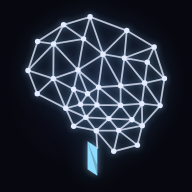
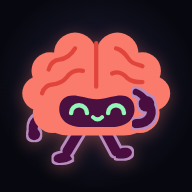
Icono con el personaje y animación de entrada «Zuka potencia tu mente»
Los iconos (Android, enmascarable, Apple y favicon) son ahora el
personaje sobre el fondo oscuro de la app. La portada de entrada muestra
al personaje, que aparece con un rebote y dice en un globo «Zuka» y
«potencia tu mente» palabra por palabra; al final salta. Lo escribe
tools/marca.js (introBlock e iconos con --png). Spec
2026-11-20-icono-y-entrada.

diff --git a/index.html b/index.html
@@ -662,8 +662,28 @@
 <body data-tab="home">
   <!-- Portada: cubre la app mientras se arma y luego se desvanece. En la app instalada es del color del
        fondo del icono (la pantalla de inicio de Android). La primera vez de cada sesión lleva la animación de entrada:
-       el mismo cerebro del icono, en el centro y quieto, que se enciende mientras la app carga; luego ZUKA y el eslogan. -->
-  <div id="boot" aria-hidden="true"><!-- intro: generado por tools/marca.js, no editar --><div class="intro"><div class="intro-brain"><svg class="bi-band" style="--k:0" viewBox="0 0 100 100" focusable="false"><g stroke="#07080f" stroke-width=".5" stroke-linejoin="round"><polygon points="59.7 80.5 50 69.1 62.4 68.9" fill="#f3d583"/><polygon points="50 69.1 37.5 66.6 44.3 61.7" fill="#bfe6f7"/><polygon points="50 69.1 57 62.4 62.4 68.9" fill="#f0605d"/><polygon points="50 69.1 57 62.4 44.3 61.7" fill="#f4f7ff"/><polygon points="50.4 54.8 57 62.4 44.3 61.7" fill="#f4f7ff"/></g></svg><svg class="bi-band" style="--k:1" viewBox="0 0 100 100" focusable="false"><g stroke="#07080f" stroke-width=".5" stroke-linejoin="round"><polygon points="72.8 77.1 59.7 80.5 62.4 68.9" fill="#8fd0ee"/><polygon points="37.5 66.6 33.1 56.7 44.3 61.7" fill="#8fd0ee"/><polygon points="33.1 56.7 41.3 54.5 44.3 61.7" fill="#8fd0ee"/><polygon points="51.3 45 50.4 54.8 63.5 55" fill="#bfe6f7"/><polygon points="45.2 48.6 41.3 54.5 50.4 54.8" fill="#dbe9f7"/><polygon points="41.3 54.5 50.4 54.8 44.3 61.7" fill="#8fd0ee"/><polygon points="50.4 54.8 63.5 55 57 62.4" fill="#f4f7ff"/><polygon points="63.5 55 57 62.4 69.8 63" fill="#dbe9f7"/><polygon points="57 62.4 62.4 68.9 69.8 63" fill="#f4f7ff"/></g></svg><svg class="bi-band" style="--k:2" viewBox="0 0 100 100" focusable="false"><g stroke="#07080f" stroke-width=".5" stroke-linejoin="round"><polygon points="75.5 66.3 72.8 77.1 62.4 68.9" fill="#bfe6f7"/><polygon points="75.5 66.3 75.3 54.1 69.8 63" fill="#f0605d"/><polygon points="75.5 66.3 62.4 68.9 69.8 63" fill="#f4f7ff"/><polygon points="33.1 56.7 26.2 40.2 37.5 46.1" fill="#f4f7ff"/><polygon points="33.1 56.7 37.5 46.1 41.3 54.5" fill="#bfe6f7"/><polygon points="39.9 35.5 51.3 45 45.2 48.6" fill="#f4f7ff"/><polygon points="39.9 35.5 37.5 46.1 45.2 48.6" fill="#bfe6f7"/><polygon points="51.3 45 63.5 44.2 63.5 55" fill="#7a3358"/><polygon points="51.3 45 45.2 48.6 50.4 54.8" fill="#8fd0ee"/><polygon points="63.5 44.2 63.5 55 75.3 54.1" fill="#bfe6f7"/><polygon points="37.5 46.1 45.2 48.6 41.3 54.5" fill="#7a3358"/><polygon points="63.5 55 75.3 54.1 69.8 63" fill="#dbe9f7"/></g></svg><svg class="bi-band" style="--k:3" viewBox="0 0 100 100" focusable="false"><g stroke="#07080f" stroke-width=".5" stroke-linejoin="round"><polygon points="85.4 55.2 75.5 66.3 75.3 54.1" fill="#dbe9f7"/><polygon points="85.4 55.2 76.8 42.7 75.3 54.1" fill="#f3d583"/><polygon points="33.1 56.7 17.3 48.6 26.2 40.2" fill="#f3d583"/><polygon points="53.8 26.7 65.6 28.8 63.5 44.2" fill="#f3d583"/><polygon points="53.8 26.7 39.9 35.5 51.3 45" fill="#f4f7ff"/><polygon points="53.8 26.7 51.3 45 63.5 44.2" fill="#bfe6f7"/><polygon points="65.6 28.8 63.5 44.2 76.8 42.7" fill="#f4f7ff"/><polygon points="39.9 35.5 26.2 40.2 37.5 46.1" fill="#f3d583"/><polygon points="63.5 44.2 76.8 42.7 75.3 54.1" fill="#f4f7ff"/></g></svg><svg class="bi-band" style="--k:4" viewBox="0 0 100 100" focusable="false"><g stroke="#07080f" stroke-width=".5" stroke-linejoin="round"><polygon points="66.9 13.6 53.8 26.7 65.6 28.8" fill="#dbe9f7"/><polygon points="87.8 40.2 85.4 55.2 76.8 42.7" fill="#f4f7ff"/><polygon points="87.8 40.2 78.3 31.1 76.8 42.7" fill="#7a3358"/><polygon points="17.3 48.6 12.2 35.7 26.2 40.2" fill="#f4f7ff"/><polygon points="12.2 35.7 26.4 21 26.2 40.2" fill="#dbe9f7"/><polygon points="26.4 21 43 18.2 39.9 35.5" fill="#f0605d"/><polygon points="26.4 21 39.9 35.5 26.2 40.2" fill="#f4f7ff"/><polygon points="43 18.2 53.8 26.7 39.9 35.5" fill="#8fd0ee"/><polygon points="65.6 28.8 78.3 31.1 76.8 42.7" fill="#f4f7ff"/></g></svg><svg class="bi-band" style="--k:5" viewBox="0 0 100 100" focusable="false"><g stroke="#07080f" stroke-width=".5" stroke-linejoin="round"><polygon points="31.9 10.4 46.6 6 43 18.2" fill="#f4f7ff"/><polygon points="31.9 10.4 17.5 19.7 26.4 21" fill="#bfe6f7"/><polygon points="31.9 10.4 26.4 21 43 18.2" fill="#8fd0ee"/><polygon points="46.6 6 66.9 13.6 53.8 26.7" fill="#f4f7ff"/><polygon points="46.6 6 43 18.2 53.8 26.7" fill="#f4f7ff"/><polygon points="66.9 13.6 82.1 22.7 65.6 28.8" fill="#dbe9f7"/><polygon points="82.1 22.7 87.8 40.2 78.3 31.1" fill="#8fd0ee"/><polygon points="82.1 22.7 65.6 28.8 78.3 31.1" fill="#bfe6f7"/><polygon points="12.2 35.7 17.5 19.7 26.4 21" fill="#bfe6f7"/></g></svg><svg class="bi-wire" viewBox="0 0 100 100" focusable="false"><polygon points="45.2 75 50.6 78.6 50.6 94 45.2 90.4" fill="#8fdcff"/><path d="M45.2 75L50.6 88.3L50.6 94" fill="#07080f" fill-opacity=".22"/><path d="M31.9 10.4L46.6 6M31.9 10.4L17.5 19.7M31.9 10.4L26.4 21M31.9 10.4L43 18.2M46.6 6L66.9 13.6M46.6 6L43 18.2M46.6 6L53.8 26.7M66.9 13.6L82.1 22.7M66.9 13.6L53.8 26.7M66.9 13.6L65.6 28.8M82.1 22.7L87.8 40.2M82.1 22.7L65.6 28.8M82.1 22.7L78.3 31.1M87.8 40.2L85.4 55.2M87.8 40.2L78.3 31.1M87.8 40.2L76.8 42.7M85.4 55.2L75.5 66.3M85.4 55.2L76.8 42.7M85.4 55.2L75.3 54.1M75.5 66.3L72.8 77.1M75.5 66.3L75.3 54.1M75.5 66.3L62.4 68.9M75.5 66.3L69.8 63M72.8 77.1L59.7 80.5M72.8 77.1L62.4 68.9M59.7 80.5L50 69.1M59.7 80.5L62.4 68.9M50 69.1L37.5 66.6M50 69.1L57 62.4M50 69.1L62.4 68.9M50 69.1L44.3 61.7M37.5 66.6L33.1 56.7M37.5 66.6L44.3 61.7M33.1 56.7L17.3 48.6M33.1 56.7L26.2 40.2M33.1 56.7L37.5 46.1M33.1 56.7L41.3 54.5M33.1 56.7L44.3 61.7M17.3 48.6L12.2 35.7M17.3 48.6L26.2 40.2M12.2 35.7L17.5 19.7M12.2 35.7L26.4 21M12.2 35.7L26.2 40.2M17.5 19.7L26.4 21M26.4 21L43 18.2M26.4 21L39.9 35.5M26.4 21L26.2 40.2M43 18.2L53.8 26.7M43 18.2L39.9 35.5M53.8 26.7L65.6 28.8M53.8 26.7L39.9 35.5M53.8 26.7L51.3 45M53.8 26.7L63.5 44.2M65.6 28.8L78.3 31.1M65.6 28.8L63.5 44.2M65.6 28.8L76.8 42.7M78.3 31.1L76.8 42.7M39.9 35.5L26.2 40.2M39.9 35.5L51.3 45M39.9 35.5L37.5 46.1M39.9 35.5L45.2 48.6M26.2 40.2L37.5 46.1M51.3 45L63.5 44.2M51.3 45L45.2 48.6M51.3 45L50.4 54.8M51.3 45L63.5 55M63.5 44.2L76.8 42.7M63.5 44.2L63.5 55M63.5 44.2L75.3 54.1M76.8 42.7L75.3 54.1M37.5 46.1L45.2 48.6M37.5 46.1L41.3 54.5M45.2 48.6L41.3 54.5M45.2 48.6L50.4 54.8M41.3 54.5L50.4 54.8M41.3 54.5L44.3 61.7M50.4 54.8L63.5 55M50.4 54.8L57 62.4M50.4 54.8L44.3 61.7M63.5 55L75.3 54.1M63.5 55L57 62.4M63.5 55L69.8 63M75.3 54.1L69.8 63M57 62.4L62.4 68.9M57 62.4L69.8 63M57 62.4L44.3 61.7M62.4 68.9L69.8 63M50 69.1L50.6 78.6" fill="none" stroke="#e6ecff" stroke-width="1" stroke-linecap="round" stroke-opacity="0.78"/><g fill="#e6ecff"><circle cx="31.9" cy="10.4" r="1.5"/><circle cx="46.6" cy="6" r="1.5"/><circle cx="66.9" cy="13.6" r="1.5"/><circle cx="82.1" cy="22.7" r="1.5"/><circle cx="87.8" cy="40.2" r="1.5"/><circle cx="85.4" cy="55.2" r="1.5"/><circle cx="75.5" cy="66.3" r="1.5"/><circle cx="72.8" cy="77.1" r="1.5"/><circle cx="59.7" cy="80.5" r="1.5"/><circle cx="50" cy="69.1" r="1.5"/><circle cx="37.5" cy="66.6" r="1.5"/><circle cx="33.1" cy="56.7" r="1.5"/><circle cx="17.3" cy="48.6" r="1.5"/><circle cx="12.2" cy="35.7" r="1.5"/><circle cx="17.5" cy="19.7" r="1.5"/><circle cx="26.4" cy="21" r="1.5"/><circle cx="43" cy="18.2" r="1.5"/><circle cx="53.8" cy="26.7" r="1.5"/><circle cx="65.6" cy="28.8" r="1.5"/><circle cx="78.3" cy="31.1" r="1.5"/><circle cx="39.9" cy="35.5" r="1.5"/><circle cx="26.2" cy="40.2" r="1.5"/><circle cx="51.3" cy="45" r="1.5"/><circle cx="63.5" cy="44.2" r="1.5"/><circle cx="76.8" cy="42.7" r="1.5"/><circle cx="37.5" cy="46.1" r="1.5"/><circle cx="45.2" cy="48.6" r="1.5"/><circle cx="41.3" cy="54.5" r="1.5"/><circle cx="50.4" cy="54.8" r="1.5"/><circle cx="63.5" cy="55" r="1.5"/><circle cx="75.3" cy="54.1" r="1.5"/><circle cx="57" cy="62.4" r="1.5"/><circle cx="62.4" cy="68.9" r="1.5"/><circle cx="69.8" cy="63" r="1.5"/><circle cx="44.3" cy="61.7" r="1.5"/></g></svg></div><div class="intro-text"><div class="intro-word"><svg style="--k:0" viewBox="-0.5 -0.5 17 23" focusable="false"><path d="M1 1H15L1 21H15" fill="none" stroke="#e6ecff" stroke-width="2.6" stroke-linecap="round" stroke-linejoin="round"/></svg><svg style="--k:1" viewBox="22.5 -0.5 17 23" focusable="false"><path d="M24 1V13.5a7 7 0 0 0 14 0V1" fill="none" stroke="#e6ecff" stroke-width="2.6" stroke-linecap="round" stroke-linejoin="round"/></svg><svg style="--k:2" viewBox="45.5 -0.5 17.5 23" focusable="false"><path d="M47 1V21M61 1L47 12.5M52.6 8L61.5 21" fill="none" stroke="#e6ecff" stroke-width="2.6" stroke-linecap="round" stroke-linejoin="round"/></svg><svg style="--k:3" viewBox="68.5 -0.5 19 23" focusable="false"><path d="M70 21L78 1L86 21M73 14H83" fill="none" stroke="#e6ecff" stroke-width="2.6" stroke-linecap="round" stroke-linejoin="round"/></svg></div><p class="intro-slogan">Potencia tu mente</p></div></div><!-- /intro --></div>
+       el personaje del icono aparece en el centro y dice «Zuka potencia tu mente» mientras la app carga. -->
+  <div id="boot" aria-hidden="true"><!-- intro: generado por tools/marca.js, no editar --><div class="intro"><p class="intro-say"><b>Zuka</b><span><i style="--k:0">potencia</i> <i style="--k:1">tu</i> <i style="--k:2">mente</i></span></p><div class="intro-hero"><svg class="mascot cheer intro-mascot" viewBox="0 0 125 118" aria-hidden="true">
+  <defs><filter id="m-ol-intro" x="-20%" y="-20%" width="140%" height="140%"><feMorphology in="SourceAlpha" operator="dilate" radius="1.3" result="d"/>
+    <feFlood flood-color="#b98bc0"/><feComposite in2="d" operator="in"/><feMerge><feMergeNode/><feMergeNode in="SourceGraphic"/></feMerge></filter></defs>
+  <g class="m-legs" filter="url(#m-ol-intro)"><path d="M50 86 L41 101" stroke="var(--mi, #4a1040)" stroke-linecap="round" stroke-linejoin="round" fill="none" stroke-width="7.5"/><path d="M42 102 C35 101 29 104 31 108 C33 111 41 110 45 107" fill="var(--mi, #4a1040)"/>
+    <path d="M70 86 L78 101" stroke="var(--mi, #4a1040)" stroke-linecap="round" stroke-linejoin="round" fill="none" stroke-width="7.5"/><path d="M77 101 C82 97 89 97 90 101 C91 105 84 108 78 106" fill="var(--mi, #4a1040)"/></g>
+  <g class="m-back" filter="url(#m-ol-intro)"><path d="M22 64 C12 61 7 53 8 43" stroke="var(--mi, #4a1040)" stroke-linecap="round" stroke-linejoin="round" fill="none" stroke-width="7"/><circle cx="8.5" cy="41" r="5" fill="var(--mi, #4a1040)"/></g>
+  <g class="m-body" fill="var(--mb, #fa7a6c)">
+    <circle cx="47" cy="27" r="16"/><circle cx="79" cy="27" r="16"/><circle cx="28" cy="40" r="14"/><circle cx="98" cy="40" r="14"/>
+    <circle cx="20" cy="57" r="13"/><circle cx="106" cy="57" r="13"/><circle cx="30" cy="72" r="15"/><circle cx="96" cy="72" r="15"/>
+    <rect x="18" y="28" width="90" height="61" rx="24"/>
+  </g>
+  <g stroke="var(--mg, #e0443a)" stroke-width="3.2" stroke-linecap="round" fill="none">
+    <path d="M63 19 L63 52"/>
+    <path d="M47 23 C44 28 40 31 35 31.5 C30 32 28 35.5 27 39"/><path d="M53 40 C47 38.5 43.5 41 40.5 45 C37 49.5 32.5 50 29 50.5 C25 51 23 54 22 57"/>
+    <path d="M78 23 C83 24 85.5 28 88 31.5 C90.5 35 94.5 35 98 36.5"/><path d="M75 42 C79.5 40 83.5 42 86.5 45.5 C89.5 48.5 93.5 48.5 98 48.5"/>
+  </g>
+  <path d="M35 69 C35 61 41 57.5 49 59 C55 60 60 61.5 63.5 61.5 C67 61.5 72 60 78 59 C86 57.5 92 61 92 69 C92 77 85 82.5 75 82.5 L52 82.5 C42 82.5 35 77 35 69 Z" fill="var(--mi, #4a1040)"/>
+  <path d="M44 72 A6 6 0 0 1 56 72 M72 72 A6 6 0 0 1 84 72" stroke="var(--me, #93f5b6)" stroke-width="3.4" stroke-linecap="round" fill="none"/>
+       <path d="M59 74.5 Q64 80.5 69 74.5 Z" fill="var(--me, #93f5b6)" stroke="var(--me, #93f5b6)" stroke-width="1.6" stroke-linejoin="round"/>
+  <g class="m-front" filter="url(#m-ol-intro)"><path d="M103 64 C113 61 118 53 117 43" stroke="var(--mi, #4a1040)" stroke-linecap="round" stroke-linejoin="round" fill="none" stroke-width="7"/><circle cx="116.5" cy="41" r="5" fill="var(--mi, #4a1040)"/></g>
+</svg></div></div><!-- /intro --></div>
   <script>
     setTimeout(function () { var b = document.getElementById('boot'); if (b) b.remove(); document.documentElement.removeAttribute('data-intro'); }, 6000);
     // Momento en que la animación empieza a verse (primer cuadro pintado): js/app.js espera a que termine.

diff --git a/tools/marca.js b/tools/marca.js
@@ -115,27 +115,25 @@ const WORD_D = 'M1 1H15L1 21H15M24 1V13.5a7 7 0 0 0 14 0V1M47 1V21M61 1L47 12.5M
 const wordmark = (ink = 'currentColor') => `<svg class="wordmark" viewBox="-1 -1 89 24" aria-hidden="true" focusable="false">`
   + `<path d="${WORD_D}" pathLength="1" fill="none" stroke="${ink}" stroke-width="2.6" stroke-linecap="round" stroke-linejoin="round"/></svg>`;
 
-// Animación de entrada (va dentro de la portada #boot de index.html, entre las marcas <!-- intro -->): el cerebro en
-// malla está quieto desde el primer cuadro, igual al icono con que Android abre la app, y sus caras se encienden por
-// franjas desde el tallo; luego aparecen las letras de ZUKA y el eslogan. Nada se mueve ni cambia de tamaño: solo
-// cambia la opacidad de capas enteras (cada franja y cada letra es su propio <svg>), que el celular anima aunque esté
-// ocupado cargando la app. Los tiempos los pone css/styles.css (.intro), con el turno --k de cada capa.
+// El personaje (js/mascota.js), leído aquí para la animación de entrada y los iconos.
+const mascotSVG = (() => {
+  const vm = require('vm'), c = {};
+  vm.createContext(c);
+  vm.runInContext(fs.readFileSync(path.join(ROOT, 'js/mascota.js'), 'utf8') + ';this.m = mascotSVG;', c);
+  return c.m;
+})();
+
+// Animación de entrada (va dentro de la portada #boot de index.html, entre las marcas <!-- intro -->; pedido del
+// 2026-11-20, spec 2026-11-20-icono-y-entrada): el personaje aparece en el centro con un pequeño rebote y dice en un
+// globo «Zuka potencia tu mente», palabra por palabra; luego salta dos veces. Los tiempos los pone css/styles.css (.intro).
+// El filtro del borde lleva otro id (m-ol-intro): la portada se esconde y un filtro dentro de algo oculto no se pinta.
 const SLOGAN = 'Potencia tu mente';
-const INTRO_BANDS = 6;
-const INTRO_LETTERS = [['M1 1H15L1 21H15', 1, 15], ['M24 1V13.5a7 7 0 0 0 14 0V1', 24, 38], ['M47 1V21M61 1L47 12.5M52.6 8L61.5 21', 47, 61.5], ['M70 21L78 1L86 21M73 14H83', 70, 86]];
+const INTRO_WORDS = SLOGAN.toLowerCase().split(' ');
 function introBlock() {
-  const g = mesh('full'), INK = '#e6ecff', dist = p => Math.hypot(p[0] - g.root[0], p[1] - g.root[1]);
-  const mid = t => [0, 1].map(k => (g.nodes[t[0]][k] + g.nodes[t[1]][k] + g.nodes[t[2]][k]) / 3);
-  const far = Math.max(...g.tris.map(t => dist(mid(t)))) + 1e-9;
-  const svg = (cls, k, body) => `<svg class="${cls}"${k === null ? '' : ` style="--k:${k}"`} viewBox="0 0 100 100" focusable="false">${body}</svg>`;
-  const bands = Array.from({ length: INTRO_BANDS }, (_, b) => svg('bi-band', b,
-    `<g stroke="#07080f" stroke-width=".5" stroke-linejoin="round">${g.tris.map((t, i) => (Math.floor((dist(mid(t)) / far) * INTRO_BANDS) === b
-      ? `<polygon points="${t.map(k => pt(g.nodes[k])).join(' ')}" fill="${FACES[(i * 5 + t[0]) % FACES.length]}"/>` : '')).join('')}</g>`)).join('');
-  const wire = svg('bi-wire', null, inner(brain('full', { ink: INK, stem: '#8fdcff', cls: false })));
-  const word = INTRO_LETTERS.map(([d, x0, x1], k) => `<svg style="--k:${k}" viewBox="${x0 - 1.5} -0.5 ${x1 - x0 + 3} 23" focusable="false">`
-    + `<path d="${d}" fill="none" stroke="${INK}" stroke-width="2.6" stroke-linecap="round" stroke-linejoin="round"/></svg>`).join('');
-  return `<div class="intro"><div class="intro-brain">${bands}${wire}</div>`
-    + `<div class="intro-text"><div class="intro-word">${word}</div><p class="intro-slogan">${SLOGAN}</p></div></div>`;
+  const hero = mascotSVG('cheer', 'intro-mascot').replace(/m-ol/g, 'm-ol-intro');
+  const words = INTRO_WORDS.map((w, k) => `<i style="--k:${k}">${w}</i>`).join(' ');
+  return `<div class="intro"><p class="intro-say"><b>Zuka</b><span>${words}</span></p>`
+    + `<div class="intro-hero">${hero}</div></div>`;
 }
 const INTRO_MARKS = ['<!-- intro: generado por tools/marca.js, no editar -->', '<!-- /intro -->'];
 // Pone el bloque de la animación en index.html, entre sus marcas.
@@ -183,22 +181,22 @@ const logoHTML = () => \`<span class="logo" role="img" aria-label="Zuka">\${brai
 }
 
 // ---- iconos PNG ----
-// `pad`: margen alrededor del cerebro, en fracción del lado. El cerebro va casi hasta el borde; el enmascarable (el que
-// usa Android, que lo recorta en círculo u otra forma) lo lleva hasta el límite de la zona segura: un círculo del 80 %.
+// El personaje sobre el fondo oscuro de la app (pedido del 2026-11-20). `pad`: margen alrededor, en fracción del lado. El
+// enmascarable (Android lo recorta en círculo u otra forma) lo deja dentro de la zona segura: un círculo del 80 %.
 const ICONS = [
-  { file: 'icons/icon-512.png', size: 512, pad: 0.03, kind: 'full' },
-  { file: 'icons/icon-192.png', size: 192, pad: 0.03, kind: 'full' },
-  { file: 'icons/icon-maskable-512.png', size: 512, pad: 0.1, kind: 'full' },
-  { file: 'icons/apple-touch-icon.png', size: 180, pad: 0.03, kind: 'full' },
-  { file: 'icons/favicon-48.png', size: 48, pad: 0.02, kind: 'simple', round: 0.22 },
+  { file: 'icons/icon-512.png', size: 512, pad: 0.07 },
+  { file: 'icons/icon-192.png', size: 192, pad: 0.07 },
+  { file: 'icons/icon-maskable-512.png', size: 512, pad: 0.17 },
+  { file: 'icons/apple-touch-icon.png', size: 180, pad: 0.08 },
+  { file: 'icons/favicon-48.png', size: 48, pad: 0.03, round: 0.22 },
 ];
-function iconPage({ size, pad, kind, round = 0 }) {
-  const s = size * (1 - 2 * pad), glow = Math.max(1, size / 64);
-  const svg = brain(kind, { ink: '#e6ecff', stem: '#8fdcff', cls: false }).replace('<svg', `<svg ${XMLNS} width="${s}" height="${s}"`);
+function iconPage({ size, pad, round = 0 }) {
+  const s = size * (1 - 2 * pad);
+  const svg = mascotSVG('think').replace('<svg', `<svg ${XMLNS} width="${s}" height="${s * 118 / 125}"`);
   return `<!doctype html><meta charset="utf-8"><style>html,body{margin:0;background:transparent}
     #i{width:${size}px;height:${size}px;display:grid;place-items:center;border-radius:${round * size}px;
-      background:radial-gradient(circle at 50% 44%, #10142a 0, #07080f 62%)}
-    svg{filter:drop-shadow(0 0 ${glow}px rgba(150,205,255,.55)) drop-shadow(0 0 ${glow * 4}px rgba(111,211,255,.28))}</style>
+      background:radial-gradient(circle at 50% 46%, #241430 0, #10101e 48%, #07080f 72%)}
+    svg{filter:drop-shadow(0 ${size / 64}px ${size / 24}px rgba(250,122,108,.35))}</style>
     <div id="i">${svg}</div>`;
 }
 async function pngs() {
@@ -209,6 +207,7 @@ async function pngs() {
   for (const icon of ICONS) {
     const page = await browser.newPage({ viewport: { width: icon.size, height: icon.size }, deviceScaleFactor: 1 });
     await page.setContent(iconPage(icon));
+    await page.waitForTimeout(50);
     await page.locator('#i').screenshot({ path: path.join(ROOT, icon.file), omitBackground: true });
     await page.close();
     console.log('  ' + icon.file);

diff --git a/tests/interfaz-red.test.js b/tests/interfaz-red.test.js
@@ -108,33 +108,31 @@ test('brainSVG, brainTile y logoHTML: malla, caras encendidas y nombre accesible
   assert.match(logoHTML(), /role="img" aria-label="Zuka"/);
 });
 
-test('animación de entrada: vive en la portada, con el cerebro quieto desde el primer cuadro', () => {
+test('animación de entrada: vive en la portada; el personaje dice «Zuka potencia tu mente» (spec 2026-11-20-icono-y-entrada)', () => {
   // El bloque de index.html es el que genera tools/marca.js y va dentro de #boot: se ve sin esperar a ningún script.
   assert.equal(index, built.withIntro(index), 'correr: node tools/marca.js');
   const boot = index.slice(index.indexOf('<div id="boot"'), index.indexOf('<div id="app"'));
   assert.ok(boot.includes(built.intro), 'la animación va dentro de la portada');
-  const html = built.intro, g = built.geo.full;
-  assert.match(html, /<p class="intro-slogan">Potencia tu mente<\/p>/);
-  // El cerebro de malla (el mismo del icono) no lleva animación; las caras van en franjas y ZUKA en cuatro letras, cada una en su capa.
-  assert.equal((html.match(/<svg class="bi-wire"/g) || []).length, 1);
-  const bands = [...html.matchAll(/<svg class="bi-band" style="--k:(\d+)"[^>]*>([\s\S]*?)<\/svg>/g)];
-  assert.equal(bands.map(m => m[1]).join(), '0,1,2,3,4,5');
-  assert.equal(bands.reduce((n, m) => n + (m[2].match(/<polygon/g) || []).length, 0), g.tris.length, 'cada cara en una franja');
-  for (const m of bands) assert.ok(/<polygon/.test(m[2]), `franja ${m[1]} vacía`);
-  assert.equal((html.match(/<div class="intro-word">([\s\S]*?)<\/div>/)[1].match(/<svg style="--k:\d"/g) || []).length, 4, 'Z, U, K, A');
-  // Estable: en los estilos de la entrada solo se anima la opacidad; nada de mover, escalar ni dibujar trazos.
-  const intro = css.slice(css.indexOf('/* Animación de entrada'), css.indexOf('@keyframes intro-in'));
-  assert.doesNotMatch(intro, /(?<!text-)transform|translate|scale\(|stroke-dash|@keyframes/);
-  assert.match(css, /@keyframes intro-in \{ to \{ opacity: 1; \} \}/);
-  assert.doesNotMatch(block('.intro-brain .bi-wire'), /animation|opacity/, 'el cerebro de malla se ve desde el primer cuadro');
-  assert.match(css, /\.intro \.bi-band, \.intro-word svg, \.intro-slogan \{ opacity: 0; will-change: opacity; animation: intro-in/);
-  // Centrado en la pantalla, como el icono con que el celular abre la app.
-  assert.match(block('.intro-brain'), /left: calc\(50% - var\(--bw\) \/ 2\); top: calc\(50% - var\(--bw\) \/ 2\)/);
-  // El orden: caras, palabra, eslogan; y la app espera a que termine.
-  const delay = sel => Number((rules.find(r => r.sel === sel && /animation-delay/.test(r.body))?.body.match(/animation-delay: (?:calc\()?([\d.]+)s/) || [])[1]);
-  assert.ok(delay('.intro .bi-band') < delay('.intro-word svg') && delay('.intro-word svg') < delay('.intro-slogan'));
+  const html = built.intro;
+  assert.match(html, /<p class="intro-say"><b>Zuka<\/b><span><i style="--k:0">potencia<\/i> <i style="--k:1">tu<\/i> <i style="--k:2">mente<\/i><\/span><\/p>/);
+  assert.match(html, /<div class="intro-hero"><svg class="mascot cheer intro-mascot"/);
+  assert.match(html, /url\(#m-ol-intro\)/, 'su filtro no choca con el de los demás personajes');
+  assert.doesNotMatch(html, /url\(#m-ol\)/);
+  // El orden: aparece el personaje, luego el globo, luego las palabras; y la app espera a que termine.
+  const hero = Number(block('.intro-hero').match(/intro-pop [\d.]+s [^;]* ([\d.]+)s both/)[1]);
+  const say = Number(block('.intro-say').match(/intro-pop [\d.]+s [^;]* ([\d.]+)s both/)[1]);
+  const words = Number(block('.intro-say i').match(/animation-delay: calc\(([\d.]+)s/)[1]);
+  assert.ok(hero < say && say < words, `${hero} ${say} ${words}`);
   const ms = Number((app.match(/const INTRO_MS = (\d+)/) || [])[1]);
-  assert.ok(ms >= (delay('.intro-slogan') + .6) * 1000 && ms <= 3500, `la portada espera ${ms} ms`);
+  assert.ok(ms >= (words + 2 * .3 + .3) * 1000 && ms <= 3500, `la portada espera ${ms} ms`);
+  assert.match(css, /@keyframes intro-in \{ to \{ opacity: 1; \} \}/);
+});
+
+test('el icono de la app es el personaje sobre el fondo oscuro', () => {
+  const src = read('tools/marca.js');
+  assert.match(src, /mascotSVG\('think'\)\.replace\('<svg'/);
+  for (const f of ['icons/icon-192.png', 'icons/icon-512.png', 'icons/icon-maskable-512.png', 'icons/apple-touch-icon.png', 'icons/favicon-48.png'])
+    assert.ok(fs.statSync(path.join(ROOT, f)).size > 500, f);
 });
 
 test('la entrada no deja bordes claros: documento, portada y barra del celular oscuros mientras dura', () => {

diff --git a/css/styles.css b/css/styles.css
@@ -996,24 +996,26 @@ img.logo { display: block; width: auto; }   /* panel de administración: brand/l
 .done-brain { width: 132px; margin-bottom: 10px; border-color: transparent; animation: pop .6s cubic-bezier(.2,.8,.2,1); }
 .done-brain .brain { filter: drop-shadow(0 0 12px rgba(143, 220, 255, .32)); }
 /* Animación de entrada (bloque .intro de la portada #boot, generado por tools/marca.js; js/app.js espera a que termine).
-   El cerebro en malla está quieto en el centro desde el primer cuadro, igual al icono con que el celular abre la app:
-   nada se mueve ni cambia de tamaño. Solo cambia la opacidad de capas enteras (cada franja de caras y cada letra es su
-   propio svg con su turno --k), que el celular anima sin tirones aunque esté cargando la app. Dura unos 3 s
-   (INTRO_MS en js/app.js). Siempre oscura, como el icono: data-intro oscurece también el documento. */
+   Spec 2026-11-20-icono-y-entrada: el personaje aparece en el centro con un rebote, un globo le sale encima y dice
+   «Zuka potencia tu mente» palabra por palabra, y al final salta dos veces. Dura unos 3 s (INTRO_MS en js/app.js).
+   Siempre oscura, como el icono: data-intro oscurece también el documento. No sale con «reducir movimiento». */
 html[data-intro] #boot { display: block; cursor: pointer; transition: opacity .35s ease-out; }
-.intro { position: absolute; inset: 0; --bw: min(56vw, 210px); }
-.intro-brain { position: absolute; left: calc(50% - var(--bw) / 2); top: calc(50% - var(--bw) / 2); width: var(--bw); height: var(--bw); }
-.intro-brain svg { position: absolute; inset: 0; width: 100%; height: 100%; }
-.intro-brain .bi-wire { filter: drop-shadow(0 0 5px rgba(150, 205, 255, .45)); }
-.intro-text { position: absolute; left: 0; right: 0; top: calc(50% + var(--bw) / 2 + 14px); display: grid; justify-items: center; gap: 14px; }
-.intro-word { display: flex; gap: 7px; height: 28px; }
-.intro-word svg { height: 100%; width: auto; }
-.intro-slogan { font-family: var(--display); font-size: 13px; font-weight: 500; letter-spacing: .34em; padding-left: .34em; text-transform: uppercase; color: #8fdcff; }
-.intro .bi-band, .intro-word svg, .intro-slogan { opacity: 0; will-change: opacity; animation: intro-in .5s ease-out forwards; }
-.intro .bi-band { animation-delay: calc(.35s + var(--k) * .22s); }
-.intro-word svg { animation-duration: .4s; animation-delay: calc(1.7s + var(--k) * .12s); }
-.intro-slogan { animation-duration: .6s; animation-delay: 2.3s; }
+.intro { position: absolute; inset: 0; --mw: min(48vw, 200px); }
+.intro-hero { position: absolute; left: calc(50% - var(--mw) / 2); top: 50%; width: var(--mw); transform-origin: 50% 100%; animation: intro-pop .6s cubic-bezier(.2, 1.5, .4, 1) .1s both; }
+.intro-hero .mascot { filter: drop-shadow(0 10px 28px rgba(250, 122, 108, .32)); }
+.intro-hero .mascot.cheer { animation: m-hop .8s cubic-bezier(.3, .7, .3, 1) 2.05s 2; }
+.intro-say {
+  position: absolute; left: 50%; bottom: calc(50% + 18px); translate: -50% 0; transform-origin: 50% 100%;
+  display: grid; justify-items: center; gap: 2px; padding: 14px 26px 16px; border-radius: 24px; white-space: nowrap;
+  background: #f4f7ff; color: #0a1230; box-shadow: 0 14px 40px -12px rgba(250, 122, 108, .45);
+  animation: intro-pop .45s cubic-bezier(.2, 1.5, .4, 1) .6s both;
+}
+.intro-say::after { content: ''; position: absolute; left: calc(50% - 9px); bottom: -8px; width: 18px; height: 18px; background: #f4f7ff; border-radius: 3px; rotate: 45deg; }
+.intro-say b { font-family: var(--display); font-size: 36px; font-weight: 600; line-height: 1.05; color: #f0605d; letter-spacing: .01em; }
+.intro-say span { font-family: var(--display); font-size: 20px; font-weight: 500; }
+.intro-say i { font-style: normal; display: inline-block; opacity: 0; animation: intro-in .3s ease-out forwards; animation-delay: calc(1.05s + var(--k) * .3s); }
 @keyframes intro-in { to { opacity: 1; } }
+@keyframes intro-pop { from { opacity: 0; transform: scale(.4); } to { opacity: 1; transform: none; } }
 
 @keyframes rise { from { opacity: 0; transform: translateY(10px); } }
 @keyframes drop { from { opacity: 0; transform: translate(-50%, -12px); } }

diff --git a/sw.js b/sw.js
@@ -2,7 +2,7 @@
 // Archivos propios: red primero (para recibir actualizaciones) y caché si no hay conexión.
 // Recursos externos (KaTeX, fuentes): caché primero.
 
-const VERSION = 'zuka-v220';
+const VERSION = 'zuka-v221';
 const SHELL = [
   './', 'index.html', 'manifest.json', 'css/styles.css', 'js/marca.js', 'js/mascota.js',
   'js/games/algebra-taller.js', 'js/games/algebra-escenas.js', 'js/courses/algebra-taller.js', 'js/courses/algebra-revision.js',

diff --git a/docs/superpowers/specs/2026-11-20-icono-y-entrada.md b/docs/superpowers/specs/2026-11-20-icono-y-entrada.md
@@ -1,0 +1,14 @@
+# Icono y animación de entrada con el personaje (2026-11-20)
+
+Pedido del usuario: cambiar el icono de la app por el nuevo personaje (el cerebro con antifaz) y hacer una animación al
+cargar la app en la que el personaje dice «Zuka potencia tu mente».
+
+- **Icono**: `node tools/marca.js --png` dibuja `icons/*.png` con el personaje en la pose de la imagen (`think`) sobre el
+  fondo oscuro de la app (#07080f, con un brillo morado suave). El enmascarable de Android lo deja dentro de la zona
+  segura (círculo del 80 %). El cerebro de malla sigue en `js/marca.js` y `brand/` (logo de cuenta y panel).
+- **Entrada**: `introBlock()` de `tools/marca.js` escribe en la portada `#boot` el personaje (`cheer`) y un globo:
+  «Zuka» en coral y «potencia tu mente» palabra por palabra. El personaje aparece con un rebote (0.1 s), el globo
+  a los 0.6 s, las palabras desde 1.05 s cada 0.3 s y al final salta dos veces. La app espera `INTRO_MS` (3.1 s); un
+  toque la salta. Sigue saliendo una vez por sesión y no con «reducir movimiento». Su filtro de borde usa el id
+  `m-ol-intro` para no chocar con el de los demás personajes.
+- Estilos en `css/styles.css` (bloque «Animación de entrada»). Pruebas: `tests/interfaz-red.test.js`.
